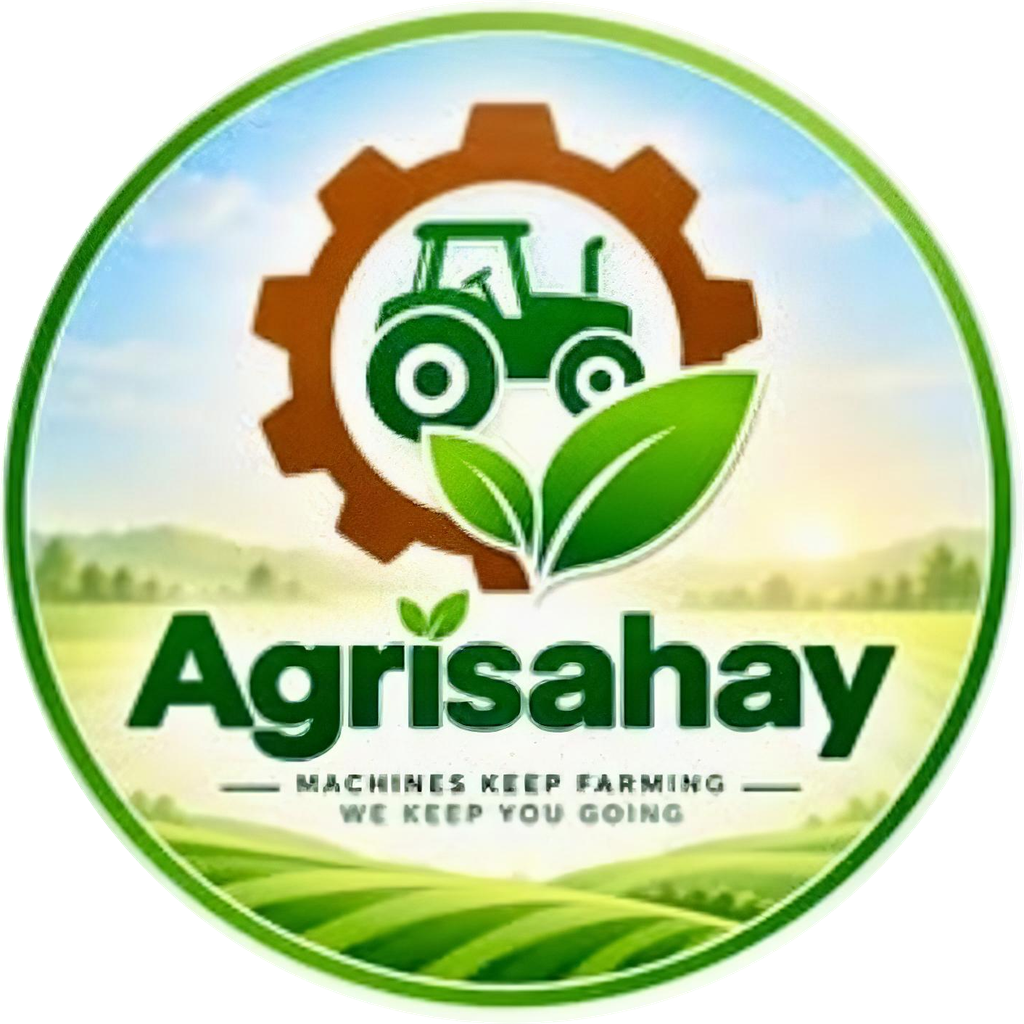
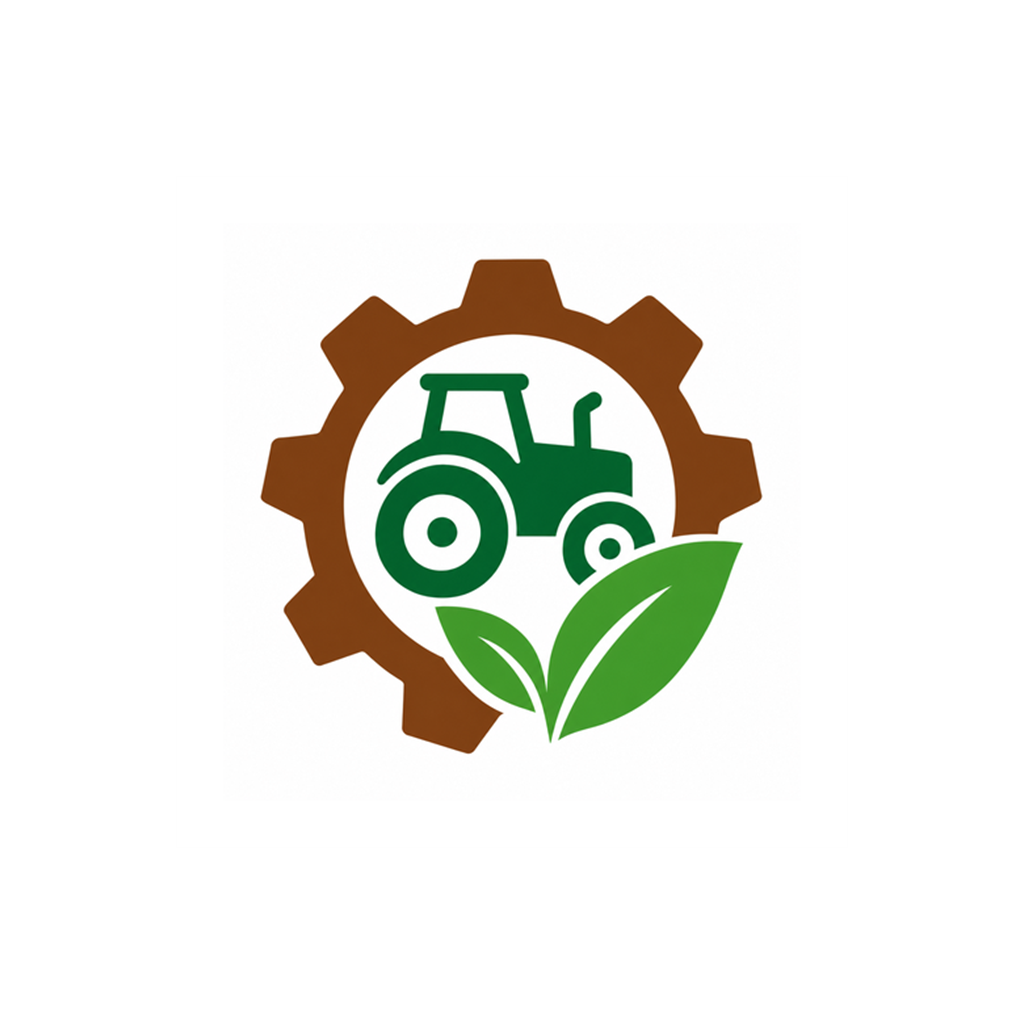
Update Agrisahay branding and mechanic UI

diff --git a/src/styles.css b/src/styles.css
@@ -203,6 +203,7 @@ h2 { margin: 0 0 18px; font-size: 26px; }
 .mechanic-welcome strong { overflow: hidden; color: var(--primary-dark); font-size: 18px; font-weight: 950; line-height: 1.08; text-overflow: ellipsis; white-space: nowrap; }
 .mechanic-support-area { position: relative; flex: 0 0 auto; margin-left: auto; }
 .mechanic-welcome-title { min-width: 0; display: grid; gap: 1px; margin: 0; text-align: left; line-height: 1.12; }
+.mechanic-help-area .mechanic-welcome-title { margin-left: 4px; }
 .mechanic-welcome-title span { color: #111; font-size: 16px; font-weight: 750; }
 .mechanic-welcome-title strong { color: var(--primary-dark); font-size: 18px; font-weight: 950; }
 .mechanic-bottom-nav button { text-wrap: balance; }
@@ -522,7 +523,7 @@ th { color: var(--muted); font-size: 12px; font-weight: 950; text-transform: upp
 .farm-landing .hero-panel > * { flex-shrink: 0; min-width: 0; }
 .farm-landing .landing-card-actions { position: relative; align-self: flex-end; justify-content: flex-end; gap: 6px; width: auto; min-height: 46px; margin: 16px 20px 0; padding: 0; border: 0; background: transparent; }
 .farm-landing .landing-brand { width: min(680px, 100%); margin: 0 auto; padding: 0 24px 20px; text-align: center; animation: rise 500ms ease-out; }
-.farm-landing .hero-logo { width: 136px; height: 136px; object-fit: contain; margin: 0 auto 14px; padding: 0; border: 0; border-radius: 50%; background: transparent; box-shadow: none; filter: none; }
+.farm-landing .hero-logo { width: 144px; height: 144px; object-fit: contain; margin: 0 auto 14px; padding: 0; border: 0; border-radius: 50%; background: transparent; box-shadow: none; filter: none; }
 .farm-landing .landing-brand .eyebrow { display: flex; align-items: center; justify-content: center; gap: 14px; margin: 0 auto 10px; color: #315b45; font-size: 11px; font-weight: 800; line-height: 1.6; }
 .farm-landing .eyebrow::before, .farm-landing .eyebrow::after { content: ''; flex: 0 0 26px; height: 1px; background: #67986f; }
 .farm-landing h1 { margin: 0; color: #168047; font-size: 80px; line-height: 1.12; text-shadow: none; overflow-wrap: anywhere; }
@@ -543,15 +544,15 @@ th { color: var(--muted); font-size: 12px; font-weight: 950; text-transform: upp
   grid-template-columns: minmax(0, 1fr);
   justify-content: center;
   gap: 13px;
-  width: min(460px, 100%);
+  width: min(420px, calc(100% - 24px));
   margin: -14px auto 0;
-  padding: 15px 20px 20px;
+  padding: 15px 14px 18px;
   border: 1px solid #fff;
   border-radius: 36px;
-  background: rgba(252, 255, 248, 0.97);
+  background: rgba(232, 244, 224, 0.97);
   box-shadow: 0 12px 24px rgba(22, 81, 35, 0.14);
 }
-.farm-landing .service-partner-label { min-width: 0; overflow-wrap: anywhere; margin: 0; color: var(--landing-ink); font-family: "Baloo 2", "Plus Jakarta Sans", sans-serif; font-size: 34px; font-weight: 700; line-height: 1.25; text-transform: none; text-shadow: none; }
+.farm-landing .service-partner-label { min-width: 0; overflow-wrap: anywhere; margin: 0; color: var(--landing-ink); font-family: "Baloo 2", "Plus Jakarta Sans", ui-sans-serif, system-ui, sans-serif; font-size: 33px; font-weight: 800; line-height: 1.25; text-transform: none; text-shadow: none; }
 .farm-landing .hero-actions .large { display: grid; grid-template-columns: 24px minmax(0, 1fr) 24px; align-items: center; justify-self: center; gap: 14px; width: min(260px, 100%); min-height: 60px; padding: 14px 24px; border-radius: 32px; font-size: 18px; line-height: 1.4; }
 .farm-landing .hero-actions .large svg { width: 24px; height: 24px; }
 .farm-landing .hero-actions .large span { overflow-wrap: anywhere; }
@@ -567,7 +568,7 @@ th { color: var(--muted); font-size: 12px; font-weight: 950; text-transform: upp
   .farm-landing .hero-panel { min-height: 100svh; }
   .farm-landing .landing-card-actions { margin: 12px 16px 0; padding: 0; }
   .farm-landing .landing-brand { padding: 0 14px 20px; }
-  .farm-landing .hero-logo { width: 104px; height: 104px; margin: 0 auto 10px; }
+  .farm-landing .hero-logo { width: 112px; height: 112px; margin: 0 auto 10px; }
   .farm-landing h1 { font-size: 58px; }
   .farm-landing:not(:lang(en)) h1 { font-size: 38px; }
   .farm-landing .landing-brand .hero-tagline { font-size: 15px; }
@@ -585,7 +586,7 @@ th { color: var(--muted); font-size: 12px; font-weight: 950; text-transform: upp
 }
 @media (max-height: 740px) and (max-width: 560px) {
   .farm-landing .landing-card-actions { margin-top: 8px; padding: 0; }
-  .farm-landing .hero-logo { width: 76px; height: 76px; margin-bottom: 6px; }
+  .farm-landing .hero-logo { width: 84px; height: 84px; margin-bottom: 6px; }
   .farm-landing .landing-brand .eyebrow { margin-bottom: 4px; font-size: 9px; }
   .farm-landing h1 { font-size: 46px; }
   .farm-landing:not(:lang(en)) h1 { font-size: 30px; }
@@ -634,6 +635,8 @@ tr.needs-reassign td:last-child { border-right: 2px solid #f3b7b7; }
 
 /* Farmer subscriptions — mechanic referral form/list and the admin review tab. */
 .job-card-topline .pill { color: white; }
+.farmer-subscription-card { padding-top: 14px; }
+.farmer-subscription-card .job-card-topline { position: relative; inset: auto; width: 100%; margin: 0 0 12px; }
 .farmer-referrals-hint { margin: 0 0 12px; font-size: 14px; font-weight: 800; line-height: 1.4; }
 .farmer-add-button { width: 100%; display: inline-flex; align-items: center; justify-content: center; gap: 8px; margin-bottom: 14px; }
 .mechanic-job-card p.error-text span { color: var(--danger); }

diff --git a/src/mechanic/screens/FarmerReferrals.tsx b/src/mechanic/screens/FarmerReferrals.tsx
@@ -41,7 +41,7 @@ export function FarmerReferrals({ onAddFarmer, technicianId, withLoading }: {
           {requests.map((request) => {
             const meta = farmerStatusMeta(request.status, t);
             return (
-              <article className="mechanic-job-card" key={request.id}>
+              <article className="mechanic-job-card farmer-subscription-card" key={request.id}>
                 <div className="job-card-topline"><span className={`pill ${meta.pillClass}`}>{meta.label}</span><time>{formatDate(request.createdAt)}</time></div>
                 <h2><span>{t('farmerName')}</span>{request.fullName}</h2>
                 <p><span>{t('villageLocation')}</span>{request.village}, {request.mandalDistrict}</p>

diff --git a/README.md b/README.md
@@ -476,3 +476,9 @@ dependency or native-config change made toward this must follow the process in
 [docs/dependency_decison.md](docs/dependency_decison.md). See that evaluation's
 findings for the current gap list before adding a release-signing, in-app-update,
 or Play-Console-integration dependency.
+
+For the mechanic app, upload `assets/agrisahay_playstore_icon_512x512_rgba.png`
+as the 512 x 512 Play Console store-listing icon. The icon shown on an installed
+phone is separate: `make icons` generates Android launcher resources from
+`assets/icon-only.png`, `assets/icon-foreground.png`, and `assets/icon-background.png`.
+The startup splash uses `assets/splash.png` with the landing-page Agrisahay logo.
